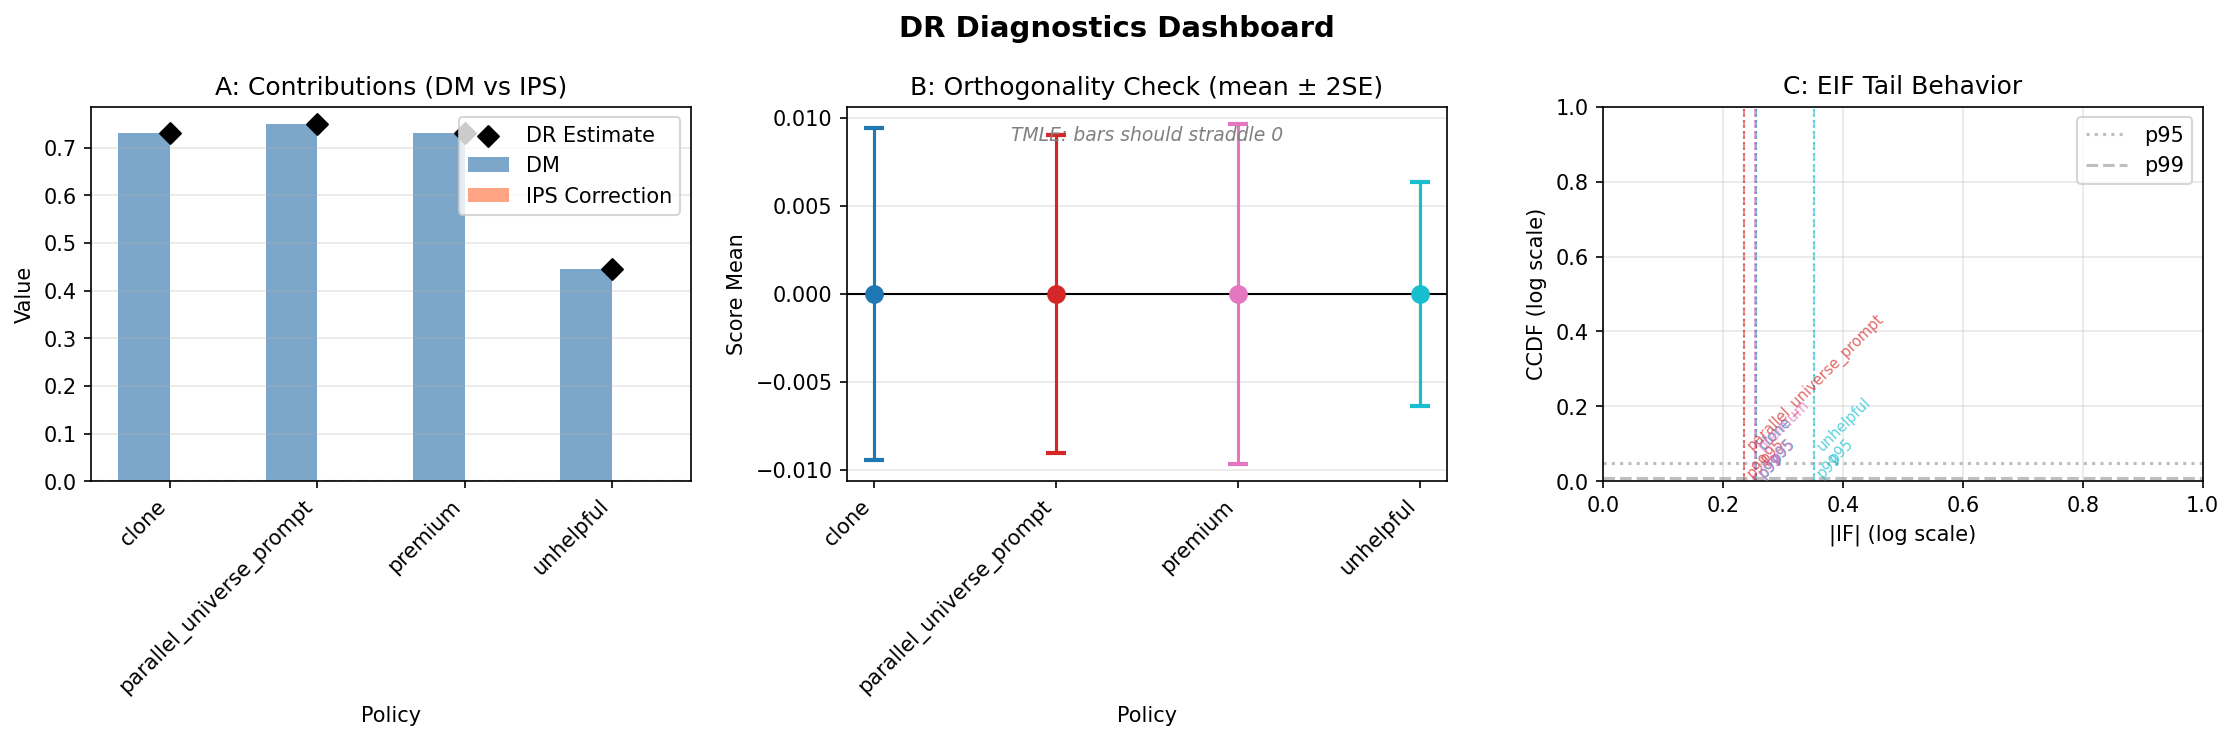
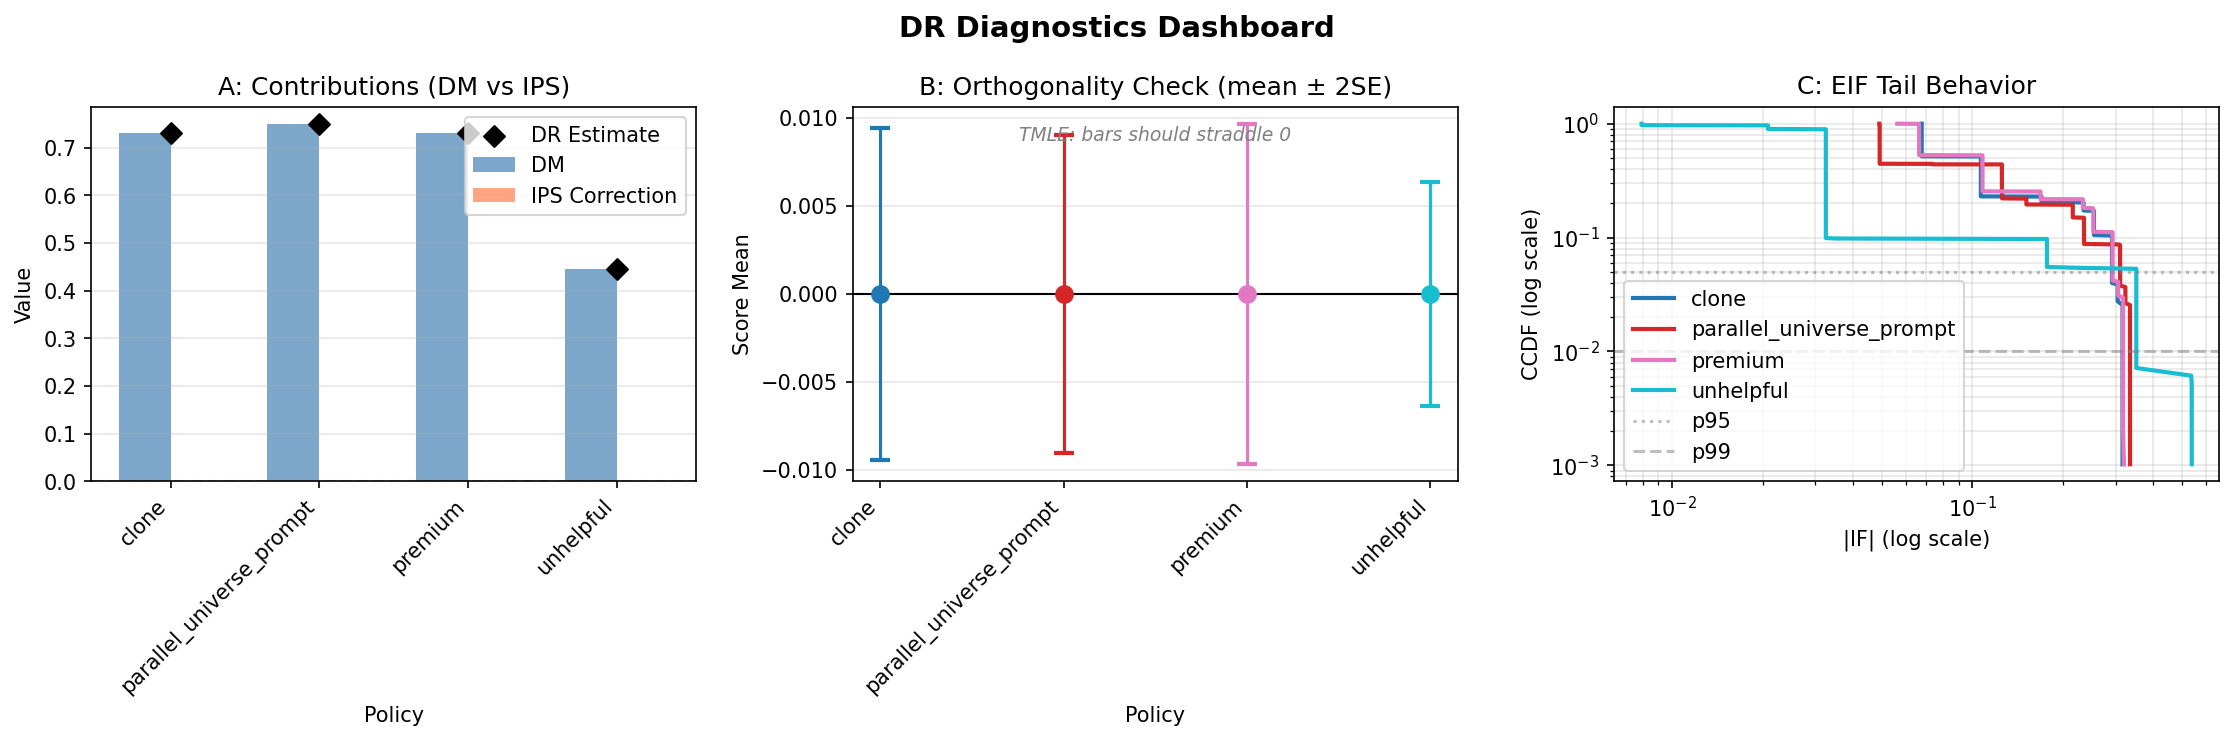
fix: DR dashboard now shows actual influence function tail traces
The DR dashboard was failing to show actual tail traces because it was
looking for influence functions in the old metadata location. With our
API redesign, influence functions are now first-class citizens at
estimation_result.influence_functions.

Updated visualization to check the new location first, with fallback
to legacy metadata location for backward compatibility. Now the tail
behavior plot shows actual empirical CCDFs instead of just percentile
markers.

diff --git a/cje/visualization/dashboards.py b/cje/visualization/dashboards.py
@@ -1080,7 +1080,15 @@ def plot_dr_dashboard(
 
     # Check if actual influence functions are available
     has_empirical_ifs = False
-    if "dr_influence" in estimation_result.metadata:
+    ifs_data = None
+
+    # First check the first-class location (new API)
+    if estimation_result.influence_functions is not None:
+        ifs_data = estimation_result.influence_functions
+        if ifs_data and all(policy in ifs_data for policy in policies):
+            has_empirical_ifs = True
+    # Fallback to legacy location in metadata
+    elif "dr_influence" in estimation_result.metadata:
         ifs_data = estimation_result.metadata["dr_influence"]
         if ifs_data and all(policy in ifs_data for policy in policies):
             has_empirical_ifs = True
